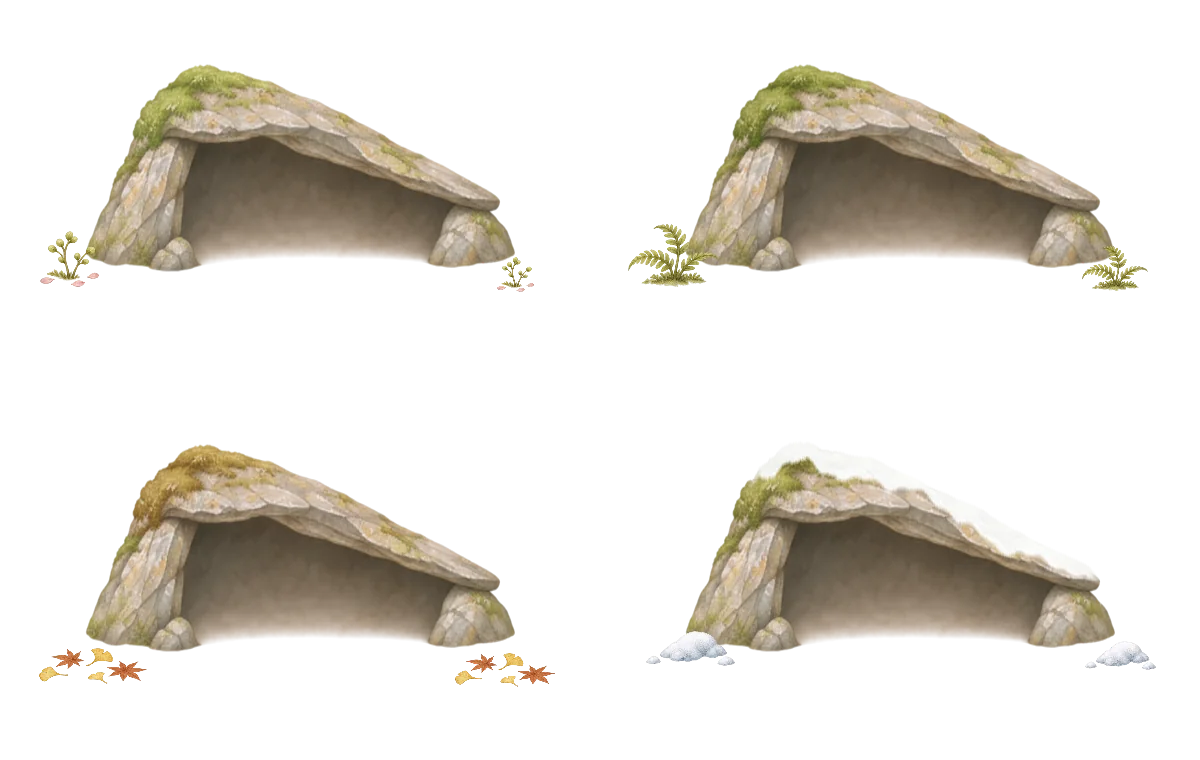
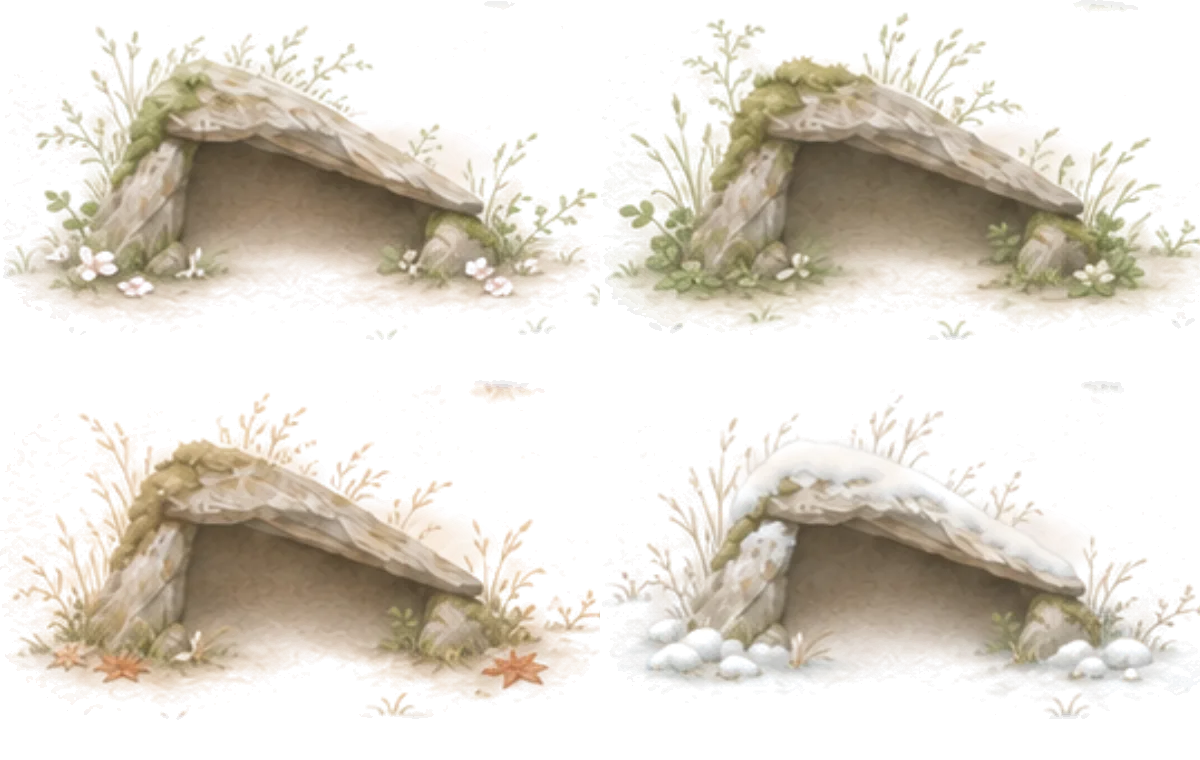
Ground the stone shelter and shelf in all four seasons

diff --git a/app/src/main/assets/web/scene.js b/app/src/main/assets/web/scene.js
@@ -83,7 +83,7 @@ class ForestScene {
  constructor(canvas,getState){this.canvas=canvas;this.ctx=canvas.getContext('2d');this.state=getState;this.assets={};this.selected=null;this.editing=false;this.preview={};this.selectedPatch='moss';this.phase=0;this.display={};this.ready=false;this.onSelect=()=>{};this.onMove=()=>{};this.paused=false;this.drag=null;this.last=0;this.resize=new ResizeObserver(()=>this.measure());this.resize.observe(canvas);this.measure();
   let saved;try{saved=JSON.parse(localStorage.getItem('forest-camera-v2'));}catch{}this.camera=new ForestCamera(saved);this.measure();
  }
- async load(){await Promise.all([...Object.keys(ForestScene.seasonFiles()),'shadePlant','shadeGround','garden','gardenWide','frame','shelterArt','rockShelter','rockShelterSeasons','stoneShelf','shelfBacks','springArt','fern1','fern2','fern3','fern4','fern5','fern6','ridley','terrain','basin','lakeFloor','lakeIce','lakeDusk','lily_leaf','lily_bud','lily_half','lily_full','lily_sink','lily_wither',...['strider','snail','eggs','tadpole','frog','frogswim','nymph','dragonfly','beetle','medaka','larva'].map(n=>'life_'+n),...Object.keys(ForestRig.files)].map(n=>new Promise((res,rej)=>{const im=new Image();im.onload=()=>{this.assets[n]=im;res();};im.onerror=()=>rej(Error('정원 그림을 불러오지 못했어요.'));im.src=({...ForestScene.seasonFiles(),shadePlant:'assets/forest/shade-plant.png',shadeGround:'assets/forest/shade-ground.png',gardenWide:'assets/forest/garden-wide.png',frame:'assets/forest/frame.png',shelterArt:'assets/forest/shelter-art.png',rockShelter:'assets/forest/rock-shelter.webp',rockShelterSeasons:'assets/forest/seasons/rock-shelter-seasons.webp',stoneShelf:'assets/forest/stone-shelf.webp',shelfBacks:'assets/forest/shelf-backs.webp',springArt:'assets/forest/spring-art.png',lakeFloor:'assets/forest/lake/lake-floor.png',lakeIce:'assets/forest/lake/lake-ice.png',lakeDusk:'assets/forest/lake/lake-dusk.webp',...Object.fromEntries(['leaf','bud','half','full','sink','wither'].map(n=>['lily_'+n,'assets/forest/lake/lily-'+n+'.png'])),...Object.fromEntries(['strider','snail','eggs','tadpole','frog','frogswim','nymph','dragonfly','beetle','medaka','larva'].map(n=>['life_'+n,'assets/forest/lake/life-'+n+'.png'])),...Object.fromEntries([1,2,3,4,5,6].map(i=>['fern'+i,'assets/forest/ferns/fern-'+i+'.png']))})[n]||ForestRig.files[n]||'assets/forest/'+(n==='garden'?'garden-open':n==='basin'?'garden-dry':n)+'.png';})));this.prepareLitter();this.ready=true;requestAnimationFrame(t=>this.frame(t));}
+ async load(){await Promise.all([...Object.keys(ForestScene.seasonFiles()),'shadePlant','shadeGround','garden','gardenWide','frame','shelterArt','rockShelter','rockShelterSeasons','stoneShelf','stoneShelfSeasons','shelfBacks','springArt','fern1','fern2','fern3','fern4','fern5','fern6','ridley','terrain','basin','lakeFloor','lakeIce','lakeDusk','lily_leaf','lily_bud','lily_half','lily_full','lily_sink','lily_wither',...['strider','snail','eggs','tadpole','frog','frogswim','nymph','dragonfly','beetle','medaka','larva'].map(n=>'life_'+n),...Object.keys(ForestRig.files)].map(n=>new Promise((res,rej)=>{const im=new Image();im.onload=()=>{this.assets[n]=im;res();};im.onerror=()=>rej(Error('정원 그림을 불러오지 못했어요.'));im.src=({...ForestScene.seasonFiles(),shadePlant:'assets/forest/shade-plant.png',shadeGround:'assets/forest/shade-ground.png',gardenWide:'assets/forest/garden-wide.png',frame:'assets/forest/frame.png',shelterArt:'assets/forest/shelter-art.png',rockShelter:'assets/forest/rock-shelter.webp',rockShelterSeasons:'assets/forest/seasons/rock-shelter-seasons.webp',stoneShelf:'assets/forest/stone-shelf.webp',stoneShelfSeasons:'assets/forest/seasons/stone-shelf-seasons.webp',shelfBacks:'assets/forest/shelf-backs.webp',springArt:'assets/forest/spring-art.png',lakeFloor:'assets/forest/lake/lake-floor.png',lakeIce:'assets/forest/lake/lake-ice.png',lakeDusk:'assets/forest/lake/lake-dusk.webp',...Object.fromEntries(['leaf','bud','half','full','sink','wither'].map(n=>['lily_'+n,'assets/forest/lake/lily-'+n+'.png'])),...Object.fromEntries(['strider','snail','eggs','tadpole','frog','frogswim','nymph','dragonfly','beetle','medaka','larva'].map(n=>['life_'+n,'assets/forest/lake/life-'+n+'.png'])),...Object.fromEntries([1,2,3,4,5,6].map(i=>['fern'+i,'assets/forest/ferns/fern-'+i+'.png']))})[n]||ForestRig.files[n]||'assets/forest/'+(n==='garden'?'garden-open':n==='basin'?'garden-dry':n)+'.png';})));this.prepareLitter();this.ready=true;requestAnimationFrame(t=>this.frame(t));}
 
  prepareLitter(){const im=this.assets.terrain,c=document.createElement('canvas');c.width=c.height=512;const x=c.getContext('2d');x.drawImage(im,512,512,512,512,0,0,512,512);const silhouette=document.createElement('canvas');silhouette.width=silhouette.height=512;const q=silhouette.getContext('2d');q.drawImage(c,0,0);q.globalCompositeOperation='source-in';q.fillStyle='rgba(62,53,30,.19)';q.fillRect(0,0,512,512);this.litterShadow=silhouette;{/* 1.1.6: the litter shadow's soft edge is baked once (it was a blur filter every frame) */const soft=document.createElement('canvas');soft.width=soft.height=512;const sx=soft.getContext('2d');sx.filter='blur(.6px)';sx.drawImage(silhouette,0,0);this.litterShadowSoft=soft;}this.litterPicked=document.createElement('canvas');this.litterPicked.width=im.width;this.litterPicked.height=im.height;const v=this.litterPicked.getContext('2d');v.drawImage(im,0,0);v.save();v.globalCompositeOperation='destination-out';v.beginPath();v.ellipse(803,714,62,29,-.12,0,Math.PI*2);v.fill();v.restore();}
  measure(){const r=this.canvas.getBoundingClientRect();if(!r.width||!r.height)return;this.vw=r.width;this.vh=r.height;this.w=360;this.h=576;this.camera?.resize(r.width,r.height);const d=Math.min(devicePixelRatio||1,2);this.canvas.width=Math.max(1,r.width*d);this.canvas.height=Math.max(1,r.height*d);this.ctx.setTransform(d,0,0,d,0,0);this.cameraChanged();}
@@ -292,10 +292,15 @@ class ForestScene {
   return true;
  }
  drawStoneShelf(c,s,w,h){
-  const shelf=Forest.World.stoneShelf(s),art=this.assets.stoneShelf;
-  if(!shelf||!art)return;
-  const x=shelf.x*w,y=shelf.y*h;
-  c.drawImage(art,x-105,y-27,180,63);
+  const shelf=Forest.World.stoneShelf(s);
+  if(!shelf)return;
+  const x=shelf.x*w-105,y=shelf.y*h-27;
+  const atlas=this.assets.stoneShelfSeasons;
+  const sx=180/570,sy=63/185;
+  if(!this.drawStoneSeason(c,atlas,750,295,x-90*sx,y-55*sy,750*sx,295*sy)){
+   const art=this.assets.stoneShelf;
+   if(art)c.drawImage(art,x,y,180,63);
+  }
  }
  pet(p,pos,kind,phase,night,held=false){const c=this.ctx,s=this.state(),level=Forest.level(p),growth=Forest.Shelter.growth(p),size=48*growth,x=pos.x*this.w,y=pos.y*this.h;
   const moving=['walk','slow','hurry','run','duck','step','avoid'].includes(kind),reduced=s.settings.reducedMotion,beat=phase*(kind==='run'?16:kind==='hurry'?12:kind==='slow'?6:9),stride=moving&&!reduced?Math.sin(beat):0;
@@ -360,23 +365,25 @@ class ForestScene {
  }
 
  prepareShelter(){if(this.shelterPaper)return;const im=this.assets.garden;this.shelterPaper=document.createElement('canvas');const can=this.shelterPaper;can.width=im.width;can.height=im.height;const c=can.getContext('2d');c.drawImage(im,0,0);const patch=document.createElement('canvas');patch.width=530;patch.height=370;const q=patch.getContext('2d');q.drawImage(im,500,540,520,370,0,0,530,370);q.globalCompositeOperation='destination-in';const v=q.createLinearGradient(0,0,0,370);v.addColorStop(0,'transparent');v.addColorStop(.10,'black');v.addColorStop(.90,'black');v.addColorStop(1,'transparent');q.fillStyle=v;q.fillRect(0,0,530,370);q.globalCompositeOperation='destination-in';const h=q.createLinearGradient(0,0,530,0);h.addColorStop(0,'black');h.addColorStop(.86,'black');h.addColorStop(1,'transparent');q.fillStyle=h;q.fillRect(0,0,530,370);c.drawImage(patch,0,180);}
- drawRockShelter(t){
-  const c=this.ctx,atlas=this.assets.rockShelterSeasons,base=this.assets.rockShelter;
+ drawStoneSeason(c,atlas,tileW,tileH,x,y,w,h){
   const season=this.cal();
-  if(!atlas||!season){
-   if(base)c.drawImage(base,t.x,t.y,220+t.extra,330*t.sy);
-   return;
-  }
-  // Each tile is the same 500 × 330 shelter with room around it for seasonal decoration.
-  const ids=['spring','summer','autumn','winter'],tileW=600,tileH=380,sx=(220+t.extra)/500;
+  if(!atlas||!season)return false;
+  const ids=['spring','summer','autumn','winter'];
   const draw=id=>{
    const i=ids.indexOf(id);
-   c.drawImage(atlas,i%2*tileW,Math.floor(i/2)*tileH,tileW,tileH,t.x-50*sx,t.y-20*t.sy,tileW*sx,tileH*t.sy);
+   c.drawImage(atlas,i%2*tileW,Math.floor(i/2)*tileH,tileW,tileH,x,y,w,h);
   };
   if(season.blend<1){
    draw(season.prev);
    c.save();c.globalAlpha*=season.blend;draw(season.id);c.restore();
   }else draw(season.id);
+  return true;
+ }
+ drawRockShelter(t){
+  const c=this.ctx,atlas=this.assets.rockShelterSeasons,base=this.assets.rockShelter,sx=(220+t.extra)/500;
+  // The padded tile hangs grass and soft ground paint outside the original shelter bounds.
+  if(!this.drawStoneSeason(c,atlas,600,380,t.x-50*sx,t.y-20*t.sy,600*sx,380*t.sy)&&base)
+   c.drawImage(base,t.x,t.y,220+t.extra,330*t.sy);
  }
  shelterArt(f){
   const Sh=Forest.Shelter,t=Sh.transform(f),c=this.ctx,im=this.assets.garden;
